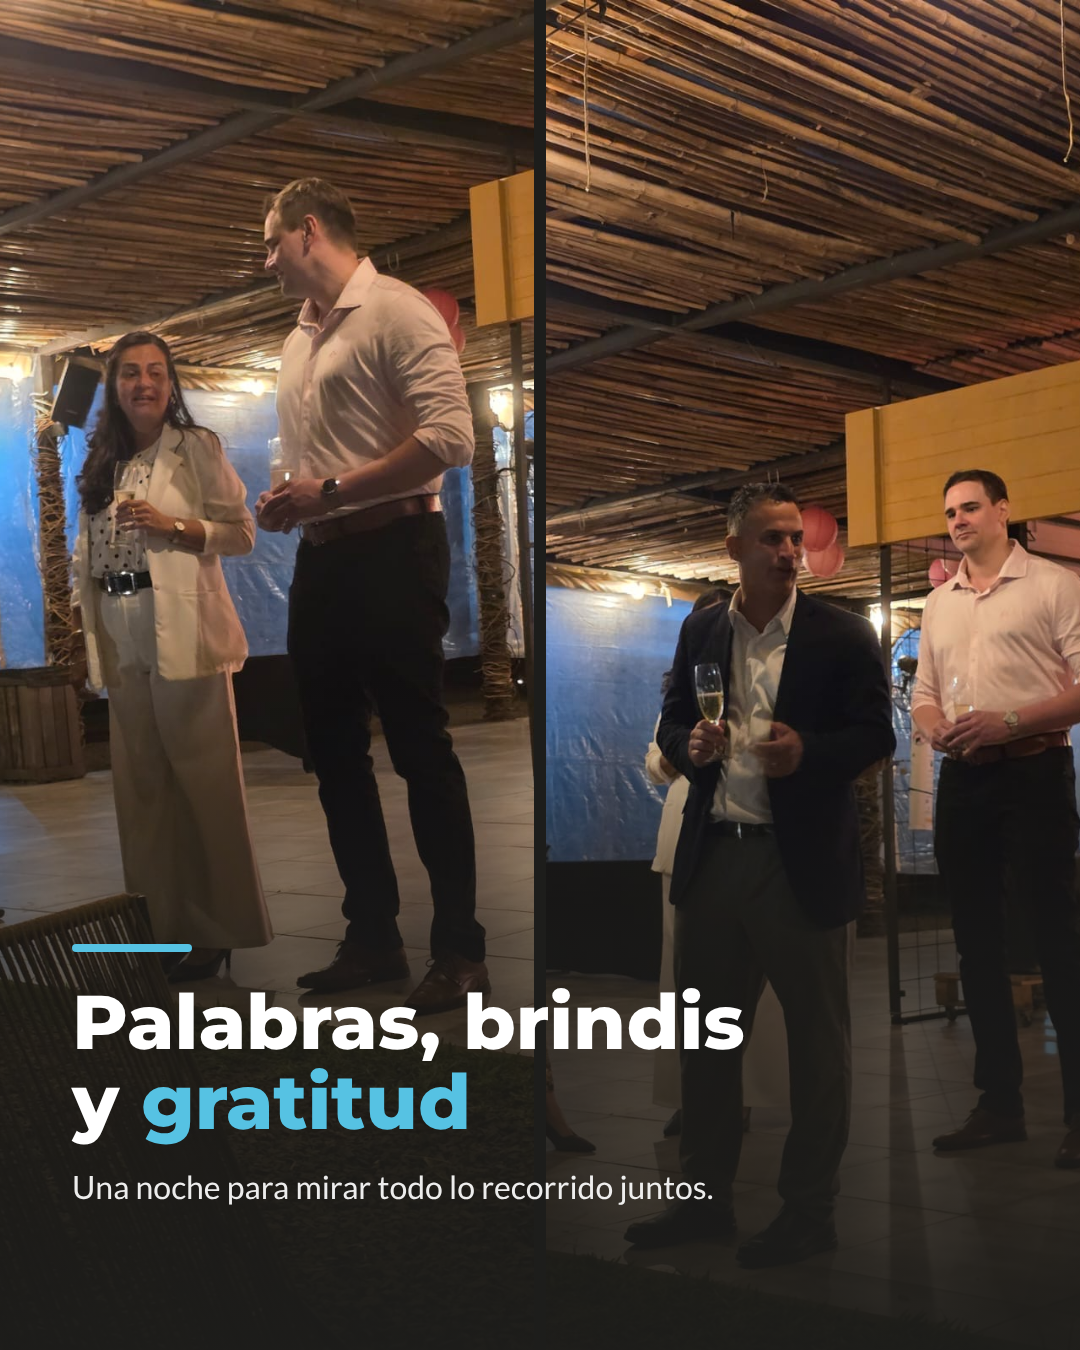
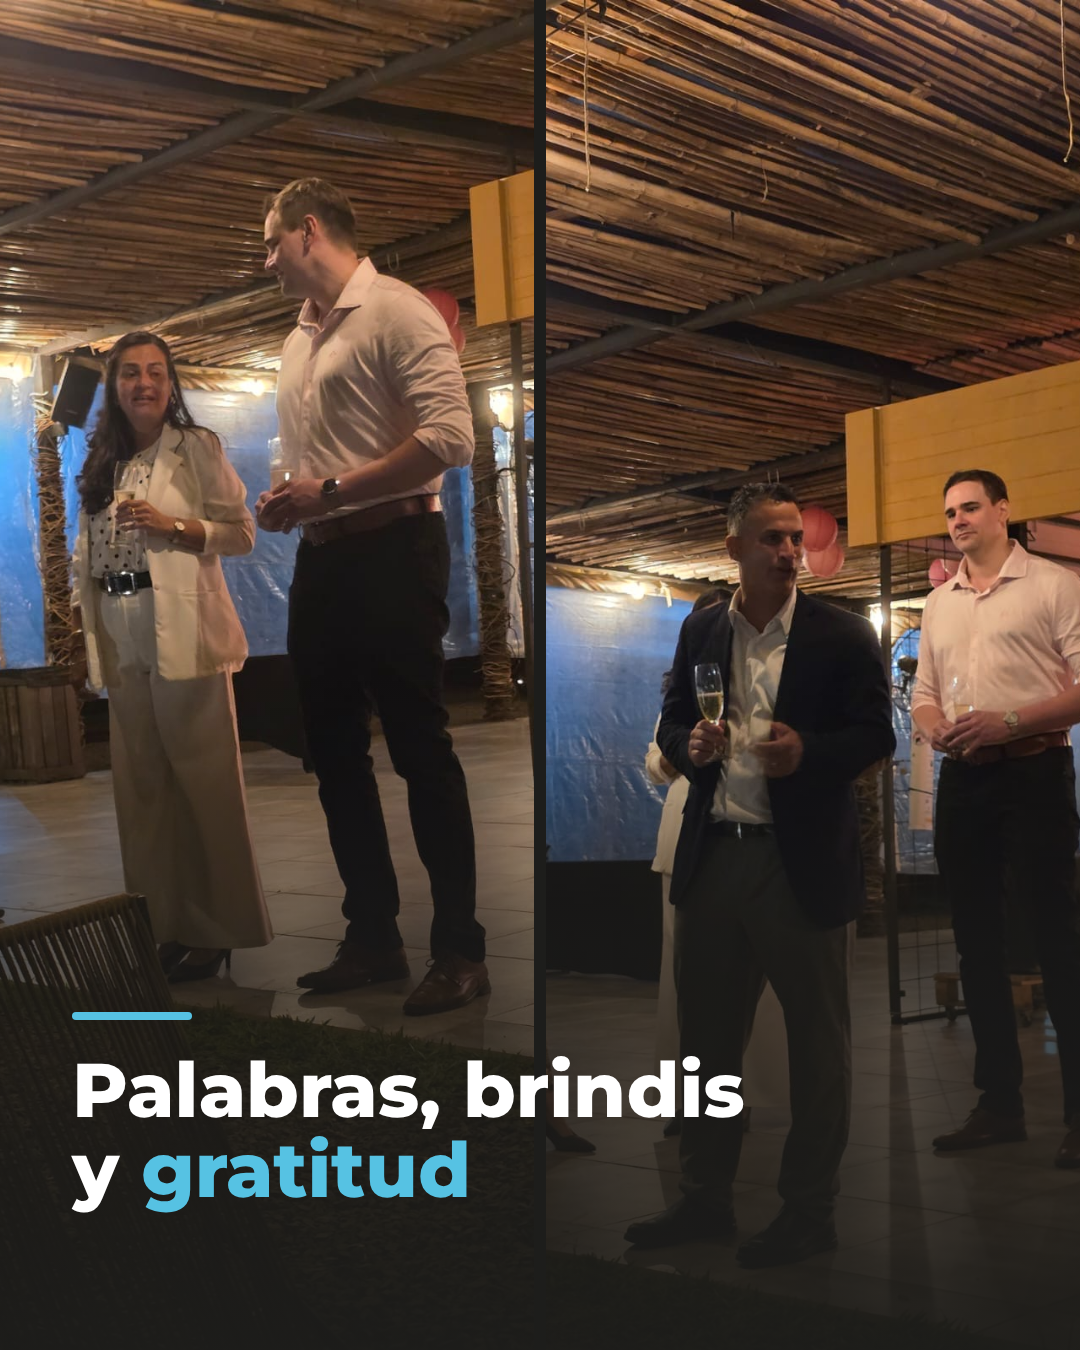
Mirian Olivera: textos simplificados en placas 2, 3 y 4
Claude-Session: https://claude.ai/code/session_01LwLBAGVYBzWARZL7XTJLMW

Changed region(s): [[0.0611, 0.6844, 0.7028, 0.9022]]

diff --git a/mirian/carrusel_san_cristobal.py b/mirian/carrusel_san_cristobal.py
@@ -69,7 +69,6 @@ SLIDES.append(f"""
   <div class="barra" style="background:var(--celeste)"></div>
   <h2 class="mont" style="font-weight:800; font-size:76px; line-height:1.05; margin-top:30px">
     Palabras, brindis<br>y <span style="color:var(--celeste)">gratitud</span></h2>
-  <p style="font-size:32px; line-height:1.45; margin-top:22px; opacity:.92">Una noche para mirar todo lo recorrido juntos.</p>
 </div>
 """)
 
@@ -79,22 +78,20 @@ SLIDES.append(f"""
   <img class="cover" src="{A}/fotos/discurso_1.jpg" style="object-position:40% 45%"></div>
 <div style="position:absolute; top:770px; left:0; right:0; bottom:0; background:#fff; border-radius:56px 56px 0 0"></div>
 <div class="slash" style="right:-60px; top:690px; width:110px; height:260px; border-radius:24px"></div>
-<div style="position:absolute; left:80px; right:160px; top:840px">
-  <div class="mont grad-text" style="font-weight:800; font-size:150px; line-height:.6; height:70px">“</div>
-  <h2 class="mont" style="font-weight:700; font-size:66px; line-height:1.12; margin-top:16px">
-    ¡Celebremos juntos todo lo que construimos en 2026!</h2>
-  <p class="mont" style="font-weight:600; font-size:26px; letter-spacing:3px; margin-top:36px; color:var(--violeta)">FIN DE AÑO · GRUPO SAN CRISTÓBAL</p>
+<div style="position:absolute; left:80px; right:80px; top:920px; white-space:nowrap">
+  <div class="barra"></div>
+  <h2 class="mont" style="font-weight:800; font-size:80px; line-height:1.08; margin-top:36px">
+    Fin de año<br><span class="grad-text">Grupo San Cristóbal</span></h2>
 </div>
 """)
 
 # 5 · FOTO GRUPAL
 SLIDES.append(f"""
 <div class="full" style="background:linear-gradient(160deg,#56c2e3 0%,#7a5fa8 30%,#951b81 62%,#6d1360 100%)"></div>
-<div style="position:absolute; left:60px; right:60px; top:150px; height:720px; border-radius:40px; overflow:hidden; box-shadow:0 30px 60px rgba(0,0,0,.35); border:10px solid #fff">
+<div style="position:absolute; left:60px; right:60px; top:160px; height:820px; border-radius:40px; overflow:hidden; box-shadow:0 30px 60px rgba(0,0,0,.35); border:10px solid #fff">
   <img class="cover" src="{A}/fotos/grupo_horizontal.jpg" style="object-position:50% 62%"></div>
-<div style="position:absolute; left:80px; right:80px; top:940px; color:#fff">
-  <h2 class="mont" style="font-weight:800; font-size:68px; line-height:1.08">Gracias por la invitación<br>y por tanto compartido</h2>
-  <p style="font-size:32px; line-height:1.45; margin-top:24px; opacity:.95">Detrás de cada logro hay un equipo que trabaja codo a codo.</p>
+<div style="position:absolute; left:80px; right:80px; top:1060px; color:#fff">
+  <h2 class="mont" style="font-weight:800; font-size:72px; line-height:1.08">Detrás de cada logro<br>hay un equipo</h2>
 </div>
 """)
 
